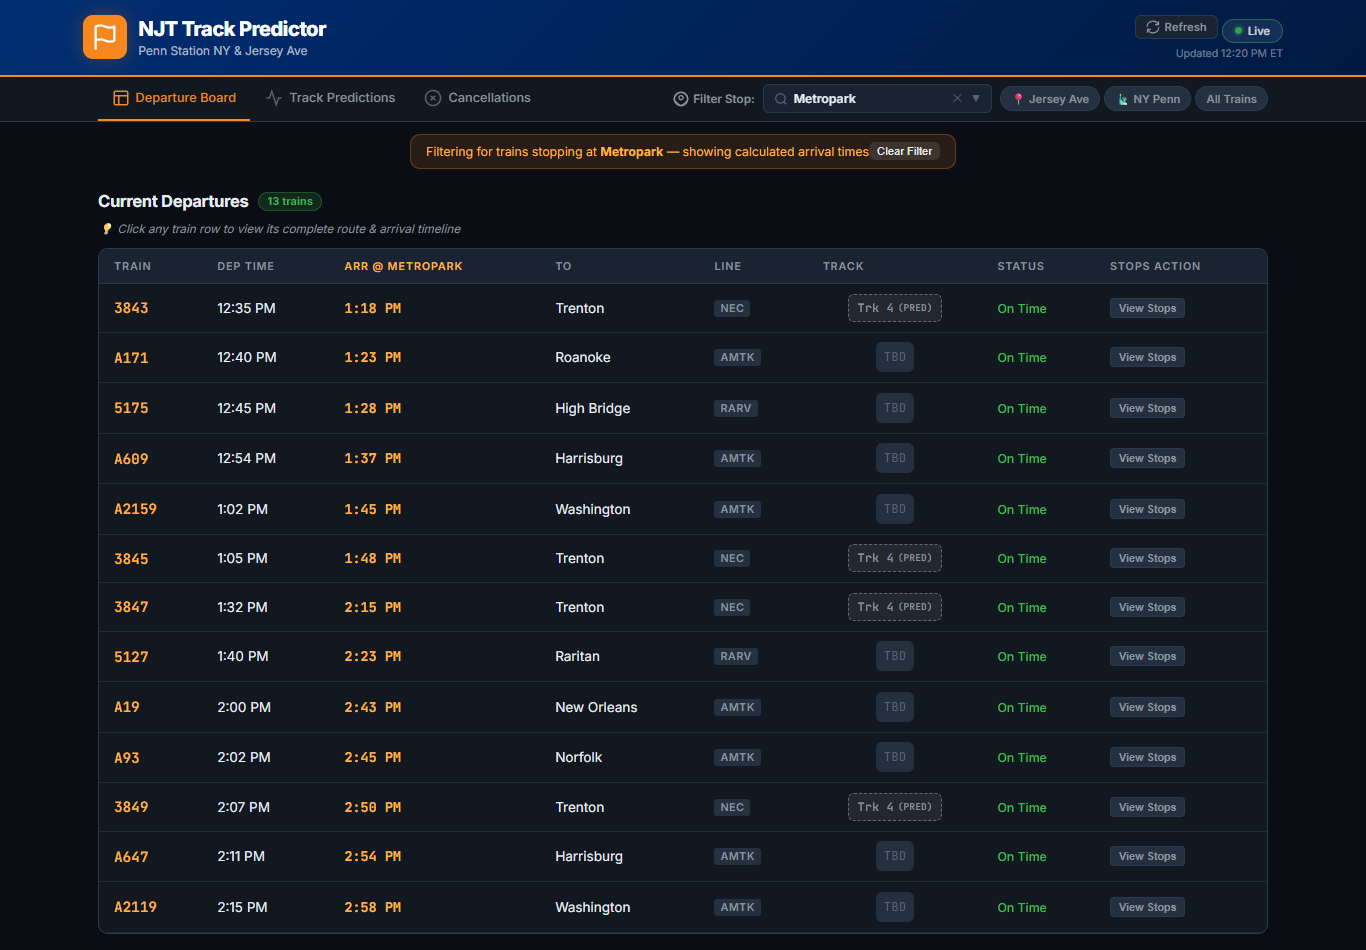
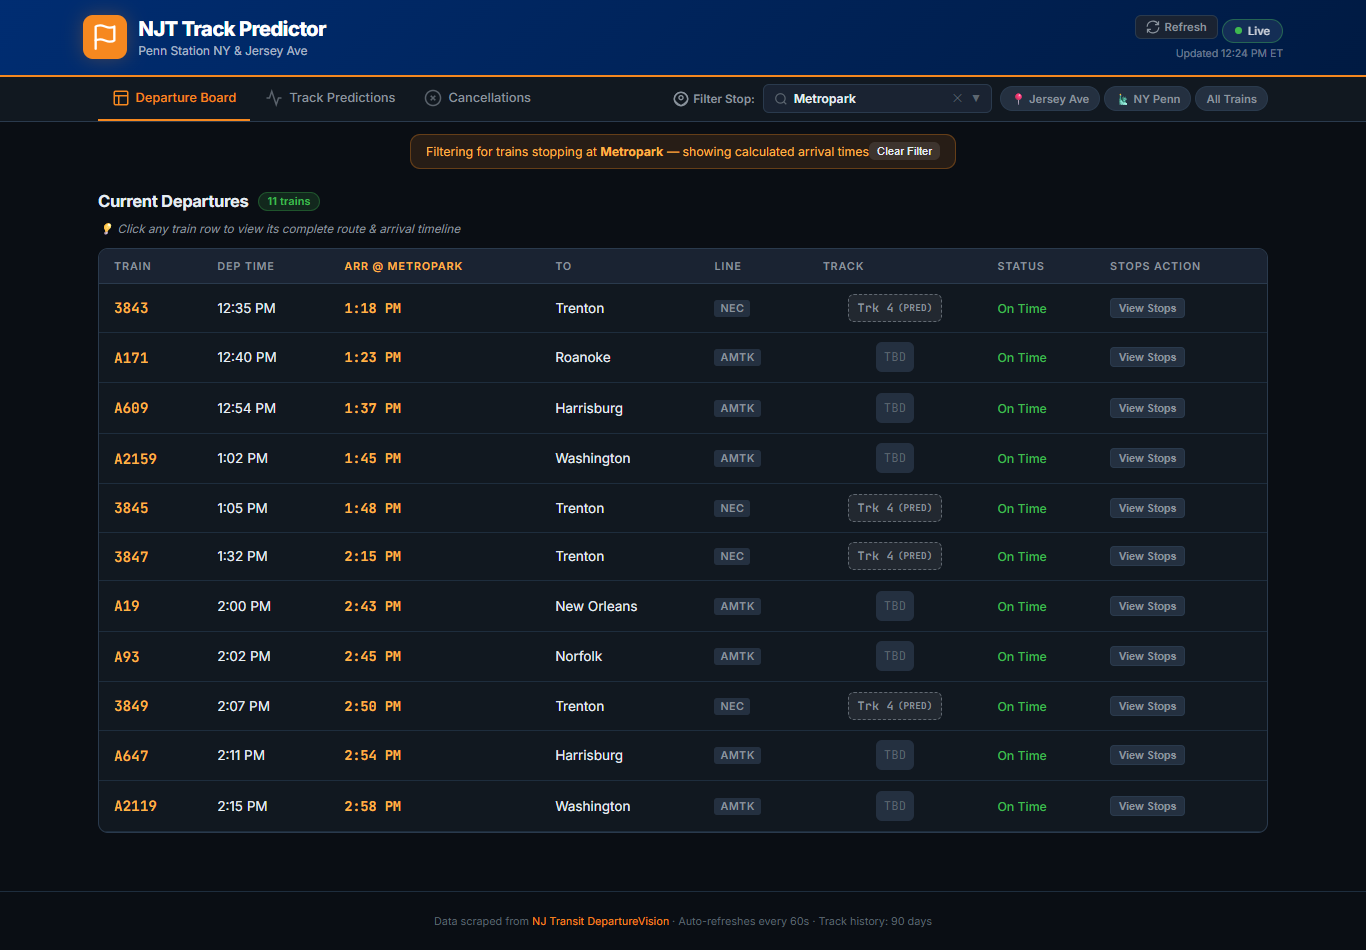
Fix Raritan and High Bridge routing and station stops; push live data

diff --git a/dashboard/app.js b/dashboard/app.js
@@ -26,7 +26,7 @@
     NJCL: ["New York Penn Station", "Secaucus Junction", "Newark Penn Station", "Elizabeth", "Rahway", "Avenel", "Woodbridge", "Perth Amboy", "South Amboy", "Matawan", "Hazlet", "Middletown", "Red Bank", "Little Silver", "Long Branch", "Elberon", "Allenhurst", "Asbury Park", "Bradley Beach", "Belmar", "Spring Lake", "Manasquan", "Point Pleasant Beach", "Bay Head"],
     "M&E": ["New York Penn Station", "Secaucus Junction", "Newark Broad St", "East Orange", "Brick Church", "Orange", "Highland Ave", "Mountain Station", "South Orange", "Maplewood", "Millburn", "Short Hills", "Summit", "Chatham", "Madison", "Convent Station", "Morristown", "Morris Plains", "Mount Tabor", "Denville", "Dover"],
     MOBO: ["New York Penn Station", "Secaucus Junction", "Newark Broad St", "Broad Street Bloomfield", "Glen Ridge", "Bay Street Montclair", "Walnut Street", "Watchung Avenue", "Upper Montclair", "Mountain Avenue", "Montclair Heights", "Montclair State University (MSU)", "Little Falls", "Mountain View", "Wayne Route 23", "Towaco", "Lincoln Park", "Boonton", "Denville", "Lake Hopatcong", "Netcong", "Mount Arlington", "Mount Olive", "Hackettstown"],
-    RVL: ["Newark Penn Station", "Union", "Roselle Park", "Cranford", "Garwood", "Westfield", "Fanwood", "Netherwood", "Plainfield", "Dunellen", "Bound Brook", "Bridgewater", "Somerville", "Raritan", "Lebanon", "White House", "High Bridge"],
+    RVL: ["New York Penn Station", "Secaucus Junction", "Newark Penn Station", "Union", "Roselle Park", "Cranford", "Garwood", "Westfield", "Fanwood", "Netherwood", "Plainfield", "Dunellen", "Bound Brook", "Bridgewater", "Somerville", "Raritan", "North Branch", "White House", "Lebanon", "Annandale", "High Bridge"],
     MAIN: ["Hoboken", "Secaucus Junction", "Kingsland", "Lyndhurst", "Delawanna", "Passaic", "Clifton", "Paterson", "Fair Lawn (Broadway)", "Fair Lawn (Radburn)", "Glen Rock", "Ridgewood", "Ho-Ho-Kus", "Waldwick", "Allendale", "Ramsey", "Ramsey Route 17", "Mahwah", "Suffern"],
     BGN: ["Hoboken", "Secaucus Junction", "Rutherford", "Garfield", "Plauderville", "Fair Lawn (Broadway)", "Glen Rock", "Ridgewood", "Ho-Ho-Kus", "Waldwick", "Allendale", "Ramsey", "Ramsey Route 17", "Mahwah", "Suffern"],
     PVL: ["Hoboken", "Secaucus Junction", "Wood-Ridge", "Teterboro", "Essex Street", "Anderson Street", "New Bridge Landing", "River Edge", "Oradell", "Emerson", "Westwood", "Hillsdale", "Woodcliff Lake", "Park Ridge", "Montvale", "Pearl River", "Nanuet", "Spring Valley"],
@@ -55,8 +55,87 @@
       "mountain station": 36, "south orange": 40, "maplewood": 44, "millburn": 48,
       "short hills": 52, "summit": 58, "chatham": 64, "madison": 69, "convent station": 73,
       "morristown": 78, "dover": 95
+    },
+    RVL: {
+      "new york penn station": 0, "secaucus junction": 10, "newark penn station": 18,
+      "union": 27, "roselle park": 32, "cranford": 36, "garwood": 39, "westfield": 42,
+      "fanwood": 46, "netherwood": 49, "plainfield": 53, "dunellen": 58, "bound brook": 65,
+      "bridgewater": 70, "somerville": 75, "raritan": 80, "north branch": 87,
+      "white house": 94, "lebanon": 100, "annandale": 105, "high bridge": 110
     }
   };
+
+  function resolveLine(lineAbbrv, destination, trainNumber) {
+    const lineClean = (lineAbbrv || '').toUpperCase().trim();
+    const destClean = (destination || '').toLowerCase().trim();
+
+    if (['RVL', 'RV', 'RAR', 'RARITAN', 'RARITAN VALLEY', 'RARITAN VALLEY LINE'].includes(lineClean) ||
+        destClean.includes('raritan') || destClean.includes('high bridge') || destClean.includes('somerville') ||
+        destClean.includes('plainfield') || destClean.includes('dunellen') || destClean.includes('bound brook') ||
+        destClean.includes('bridgewater') || destClean.includes('white house') || destClean.includes('annandale') ||
+        destClean.includes('lebanon') || destClean.includes('cranford') || destClean.includes('roselle park')) {
+      return 'RVL';
+    }
+
+    if (['NJCL', 'COAST', 'NORTH JERSEY COAST', 'BAY HEAD', 'LONG BRANCH'].includes(lineClean) ||
+        destClean.includes('bay head') || destClean.includes('long branch') || destClean.includes('south amboy') ||
+        destClean.includes('asbury park') || destClean.includes('hazlet') || destClean.includes('middletown') ||
+        destClean.includes('red bank') || destClean.includes('point pleasant') || destClean.includes('belmar')) {
+      return 'NJCL';
+    }
+
+    if (['M&E', 'ME', 'MORRIS & ESSEX', 'MORRISTOWN', 'DOVER'].includes(lineClean) ||
+        destClean.includes('dover') || destClean.includes('morristown') || destClean.includes('summit') ||
+        destClean.includes('south orange') || destClean.includes('maplewood') || destClean.includes('chatham') ||
+        destClean.includes('madison') || destClean.includes('convent') || destClean.includes('morris plains')) {
+      return 'M&E';
+    }
+
+    if (['MOBO', 'MONTCLAIR', 'MONTCLAIR-BOONTON', 'BOONTON', 'MSU', 'HACKETTSTOWN'].includes(lineClean) ||
+        destClean.includes('msu') || destClean.includes('montclair') || destClean.includes('hackettstown') ||
+        destClean.includes('boonton') || destClean.includes('wayne') || destClean.includes('little falls')) {
+      return 'MOBO';
+    }
+
+    if (['GLAD', 'GLADSTONE', 'PASSAIC & DELAWARE'].includes(lineClean) ||
+        destClean.includes('gladstone') || destClean.includes('bernardsville') || destClean.includes('peapack') ||
+        destClean.includes('far hills') || destClean.includes('berkeley heights') || destClean.includes('murray hill') ||
+        destClean.includes('new providence') || destClean.includes('stirling') || destClean.includes('millington')) {
+      return 'GLAD';
+    }
+
+    if (['AMTK', 'AMTRAK', 'ACELA', 'NER', 'REGIONAL'].includes(lineClean) ||
+        (trainNumber && String(trainNumber).startsWith('A')) ||
+        destClean.includes('washington') || destClean.includes('baltimore') || destClean.includes('wilmington') ||
+        destClean.includes('philadelphia') || destClean.includes('newport news') || destClean.includes('norfolk') ||
+        destClean.includes('richmond') || destClean.includes('charlotte') || destClean.includes('savannah') ||
+        destClean.includes('boston')) {
+      return 'AMTK';
+    }
+
+    if (['MAIN', 'MAIN LINE'].includes(lineClean) || destClean.includes('suffern') || destClean.includes('ridgewood') ||
+        destClean.includes('paterson') || destClean.includes('clifton') || destClean.includes('passaic')) {
+      return 'MAIN';
+    }
+
+    if (['BGN', 'BERGEN', 'BERGEN COUNTY'].includes(lineClean) || destClean.includes('garfield') || destClean.includes('rutherford')) {
+      return 'BGN';
+    }
+
+    if (['PVL', 'PASCACK', 'PASCACK VALLEY'].includes(lineClean) || destClean.includes('spring valley')) {
+      return 'PVL';
+    }
+
+    if (['ACL', 'ATLANTIC CITY'].includes(lineClean) || destClean.includes('atlantic city')) {
+      return 'ACL';
+    }
+
+    if (['PJL', 'PORT JERVIS'].includes(lineClean) || destClean.includes('port jervis')) {
+      return 'PJL';
+    }
+
+    return 'NEC';
+  }
 
   // ─── DOM References ────────────────────────────────────────
   const $ = (sel) => document.querySelector(sel);
@@ -480,7 +559,8 @@
     if (item.stops && Array.isArray(item.stops) && item.stops.length > 0) {
       return item.stops;
     }
-    const lineStops = LINE_STOPS[item.line] || LINE_STOPS.NEC;
+    const lineKey = resolveLine(item.line, item.destination, item.trainNumber);
+    const lineStops = LINE_STOPS[lineKey] || LINE_STOPS.NEC;
     const destClean = (item.destination || '').toLowerCase().replace(/[^a-z0-9]/g, '');
 
     let destIdx = lineStops.findIndex(st => 
@@ -489,15 +569,25 @@
     );
     if (destIdx === -1) destIdx = lineStops.length - 1;
 
-    return lineStops.slice(0, destIdx + 1);
+    let stops = lineStops.slice(0, destIdx + 1);
+
+    if (item.station) {
+      const originClean = item.station.toLowerCase().replace(/[^a-z0-9]/g, '');
+      const originIdx = stops.findIndex(st => 
+        st.toLowerCase().replace(/[^a-z0-9]/g, '').includes(originClean) ||
+        originClean.includes(st.toLowerCase().replace(/[^a-z0-9]/g, ''))
+      );
+      if (originIdx !== -1) {
+        stops = stops.slice(originIdx);
+      }
+    }
+
+    return stops;
   }
 
   function trainStopsAt(item, targetStop) {
     if (!targetStop || targetStop.trim() === '') return true;
     const targetClean = targetStop.toLowerCase().replace(/[^a-z0-9]/g, '');
-
-    const destClean = (item.destination || '').toLowerCase().replace(/[^a-z0-9]/g, '');
-    if (destClean.includes(targetClean)) return true;
 
     const stops = getStopsForTrain(item);
     return stops.some(st => st.toLowerCase().replace(/[^a-z0-9]/g, '').includes(targetClean));

diff --git a/src/route-stops.js b/src/route-stops.js
@@ -99,6 +99,8 @@ const LINE_STOPS = {
     "Hackettstown"
   ],
   RVL: [
+    "New York Penn Station",
+    "Secaucus Junction",
     "Newark Penn Station",
     "Union",
     "Roselle Park",
@@ -113,8 +115,10 @@ const LINE_STOPS = {
     "Bridgewater",
     "Somerville",
     "Raritan",
-    "Lebanon",
+    "North Branch",
     "White House",
+    "Lebanon",
+    "Annandale",
     "High Bridge"
   ],
   MAIN: [
@@ -292,14 +296,113 @@ const STATION_OFFSETS = {
     "convent station": 73,
     "morristown": 78,
     "dover": 95
+  },
+  RVL: {
+    "new york penn station": 0,
+    "secaucus junction": 10,
+    "newark penn station": 18,
+    "union": 27,
+    "roselle park": 32,
+    "cranford": 36,
+    "garwood": 39,
+    "westfield": 42,
+    "fanwood": 46,
+    "netherwood": 49,
+    "plainfield": 53,
+    "dunellen": 58,
+    "bound brook": 65,
+    "bridgewater": 70,
+    "somerville": 75,
+    "raritan": 80,
+    "north branch": 87,
+    "white house": 94,
+    "lebanon": 100,
+    "annandale": 105,
+    "high bridge": 110
   }
 };
 
 /**
+ * Determine line abbreviation from line name, destination, and train number.
+ */
+function resolveLine(lineAbbrv, destination, trainNumber) {
+  const lineClean = (lineAbbrv || '').toUpperCase().trim();
+  const destClean = (destination || '').toLowerCase().trim();
+
+  if (['RVL', 'RV', 'RAR', 'RARITAN', 'RARITAN VALLEY', 'RARITAN VALLEY LINE'].includes(lineClean) ||
+      destClean.includes('raritan') || destClean.includes('high bridge') || destClean.includes('somerville') ||
+      destClean.includes('plainfield') || destClean.includes('dunellen') || destClean.includes('bound brook') ||
+      destClean.includes('bridgewater') || destClean.includes('white house') || destClean.includes('annandale') ||
+      destClean.includes('lebanon') || destClean.includes('cranford') || destClean.includes('roselle park')) {
+    return 'RVL';
+  }
+
+  if (['NJCL', 'COAST', 'NORTH JERSEY COAST', 'BAY HEAD', 'LONG BRANCH'].includes(lineClean) ||
+      destClean.includes('bay head') || destClean.includes('long branch') || destClean.includes('south amboy') ||
+      destClean.includes('asbury park') || destClean.includes('hazlet') || destClean.includes('middletown') ||
+      destClean.includes('red bank') || destClean.includes('point pleasant') || destClean.includes('belmar')) {
+    return 'NJCL';
+  }
+
+  if (['M&E', 'ME', 'MORRIS & ESSEX', 'MORRISTOWN', 'DOVER'].includes(lineClean) ||
+      destClean.includes('dover') || destClean.includes('morristown') || destClean.includes('summit') ||
+      destClean.includes('south orange') || destClean.includes('maplewood') || destClean.includes('chatham') ||
+      destClean.includes('madison') || destClean.includes('convent') || destClean.includes('morris plains')) {
+    return 'M&E';
+  }
+
+  if (['MOBO', 'MONTCLAIR', 'MONTCLAIR-BOONTON', 'BOONTON', 'MSU', 'HACKETTSTOWN'].includes(lineClean) ||
+      destClean.includes('msu') || destClean.includes('montclair') || destClean.includes('hackettstown') ||
+      destClean.includes('boonton') || destClean.includes('wayne') || destClean.includes('little falls')) {
+    return 'MOBO';
+  }
+
+  if (['GLAD', 'GLADSTONE', 'PASSAIC & DELAWARE'].includes(lineClean) ||
+      destClean.includes('gladstone') || destClean.includes('bernardsville') || destClean.includes('peapack') ||
+      destClean.includes('far hills') || destClean.includes('berkeley heights') || destClean.includes('murray hill') ||
+      destClean.includes('new providence') || destClean.includes('stirling') || destClean.includes('millington')) {
+    return 'GLAD';
+  }
+
+  if (['AMTK', 'AMTRAK', 'ACELA', 'NER', 'REGIONAL'].includes(lineClean) ||
+      (trainNumber && String(trainNumber).startsWith('A')) ||
+      destClean.includes('washington') || destClean.includes('baltimore') || destClean.includes('wilmington') ||
+      destClean.includes('philadelphia') || destClean.includes('newport news') || destClean.includes('norfolk') ||
+      destClean.includes('richmond') || destClean.includes('charlotte') || destClean.includes('savannah') ||
+      destClean.includes('boston')) {
+    return 'AMTK';
+  }
+
+  if (['MAIN', 'MAIN LINE'].includes(lineClean) || destClean.includes('suffern') || destClean.includes('ridgewood') ||
+      destClean.includes('paterson') || destClean.includes('clifton') || destClean.includes('passaic')) {
+    return 'MAIN';
+  }
+
+  if (['BGN', 'BERGEN', 'BERGEN COUNTY'].includes(lineClean) || destClean.includes('garfield') || destClean.includes('rutherford')) {
+    return 'BGN';
+  }
+
+  if (['PVL', 'PASCACK', 'PASCACK VALLEY'].includes(lineClean) || destClean.includes('spring valley')) {
+    return 'PVL';
+  }
+
+  if (['ACL', 'ATLANTIC CITY'].includes(lineClean) || destClean.includes('atlantic city')) {
+    return 'ACL';
+  }
+
+  if (['PJL', 'PORT JERVIS'].includes(lineClean) || destClean.includes('port jervis')) {
+    return 'PJL';
+  }
+
+  return 'NEC';
+}
+
+/**
  * Get intermediate stops for a train given its line and destination.
  */
-function getTrainStops(lineAbbrv, destination, originStation) {
-  const fullRoute = LINE_STOPS[lineAbbrv] || LINE_STOPS.NEC;
+function getTrainStops(lineAbbrv, destination, originStation, trainNumber) {
+  const lineKey = resolveLine(lineAbbrv, destination, trainNumber);
+  const fullRoute = LINE_STOPS[lineKey] || LINE_STOPS.NEC;
   const destClean = (destination || '').toLowerCase().replace(/[^a-z0-9]/g, '');
 
   let destIdx = fullRoute.findIndex(st => 
@@ -401,6 +504,7 @@ function getAllStationStops() {
 module.exports = {
   LINE_STOPS,
   STATION_OFFSETS,
+  resolveLine,
   getTrainStops,
   calculateArrivalTime,
   getAllStationStops

diff --git a/src/predictor.js b/src/predictor.js
@@ -49,7 +49,7 @@ function generatePredictions(currentBoard, history, trackRegistry) {
         excludedTracks: [],
         excludeReasons: {},
         note: 'No historical data available',
-        stops: dep.stops || getTrainStops(dep.line, dep.destination)
+        stops: dep.stops || getTrainStops(dep.line, dep.destination, dep.station, dep.trainNumber)
       });
       continue;
     }
@@ -80,7 +80,7 @@ function generatePredictions(currentBoard, history, trackRegistry) {
         excludedTracks: [],
         excludeReasons: {},
         note: 'No track assignments in history',
-        stops: dep.stops || getTrainStops(dep.line, dep.destination)
+        stops: dep.stops || getTrainStops(dep.line, dep.destination, dep.station, dep.trainNumber)
       });
       continue;
     }
@@ -153,7 +153,7 @@ function generatePredictions(currentBoard, history, trackRegistry) {
       totalHistoryDays: Object.keys(trainHistory).length,
       excludedTracks: Object.keys(excludedTracks),
       excludeReasons: excludedTracks,
-      stops: dep.stops || getTrainStops(dep.line, dep.destination)
+      stops: dep.stops || getTrainStops(dep.line, dep.destination, dep.station, dep.trainNumber)
     });
   }
 

diff --git a/src/scraper.js b/src/scraper.js
@@ -6,7 +6,7 @@
  */
 
 const puppeteer = require('puppeteer');
-const { getTrainStops } = require('./route-stops');
+const { getTrainStops, resolveLine } = require('./route-stops');
 
 // Station URLs — ONLY Penn Station NY and Jersey Avenue Station
 const STATIONS = {
@@ -211,7 +211,8 @@ async function scrapeDepartureBoard(stationKey, retries = 3) {
       
       // Attach calculated intermediate stops to each departure
       for (const dep of departures) {
-        dep.stops = getTrainStops(dep.line, dep.destination, station.shortName);
+        dep.line = resolveLine(dep.line, dep.destination, dep.trainNumber);
+        dep.stops = getTrainStops(dep.line, dep.destination, station.shortName, dep.trainNumber);
       }
 
       if (page) await page.close();
